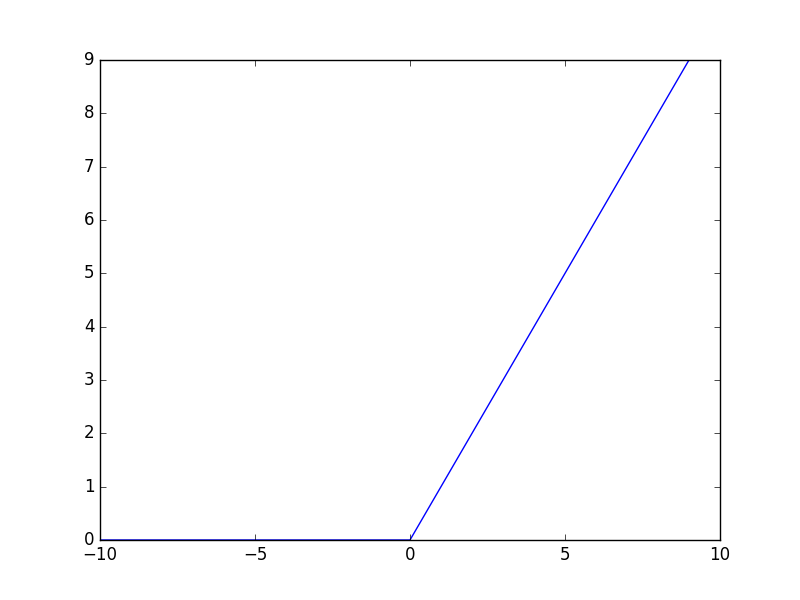
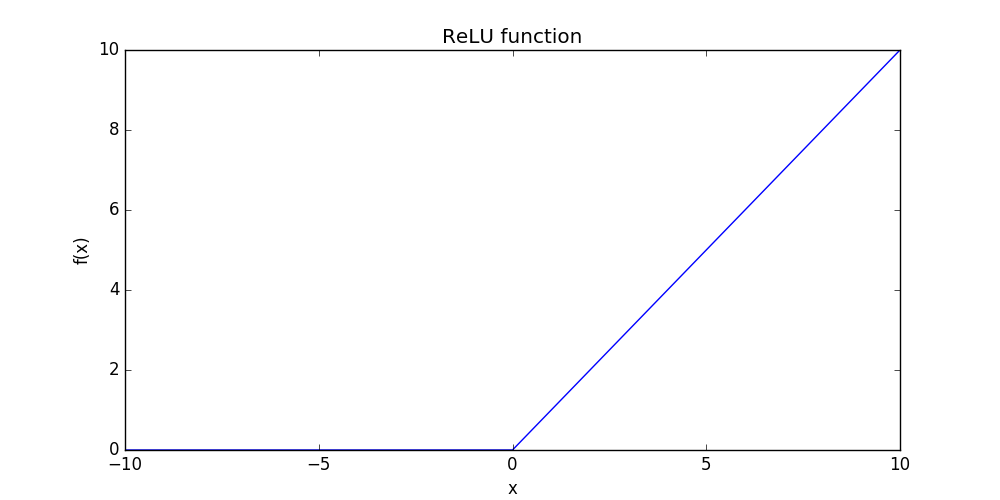
Deep learning intro done

diff --git a/report/deep_learning_intro.tex b/report/deep_learning_intro.tex
@@ -8,7 +8,7 @@
 
 In section \ref{sec:et} we mentioned that
 a \textit{neural network} can be used as a function approximator.
-Thus, a neural network can be seen as a function $f^\sim(x)$ that approximates a
+This means the neural network can be seen as a function $f^\sim(x)$ that approximates a
 function $f(x)$ and we will be using neural networks to estimate
 both the state-value function and the policy.
 We will present Deep Learning in this section with regards to the book \cite{DeepLearningBook} and the slides, \cite{IgelConv}, by Christian Igel
@@ -36,34 +36,35 @@ Each layer consists of a number of \textit{neurons} that are connected to the
 neurons of the next layer.
 \begin{figure}[!h]
     \centering
-    \includegraphics[width=10cm]{include/layers.png}
-    \caption{A series of layers in a fully connected neural network.}
+    \includegraphics[width=12cm]{include/layers.png}
+    \caption{A series of layers in a fully connected neural network, where each layer consists of three neurons.}
     \label{fig:layers}
 \end{figure}
 
-A neuron is a construct that transforms a series of input signals into a single output signal.
+A neuron is a unit that transforms a series of input signals into a single output signal.
 Each of the input signals are sent through a \textit{weighted connection}, which means
-that the input $a_i$ to neuron $z_i$ is given by
+that the input $a_i$ to a neuron $z_i$ is given by
 \begin{equation}
     a_i = \sum\limits_{j} w_{ij}* z_j
 \end{equation}
 for all neurons $z_j$ in the previous layer with a connection to $z_i$.
 
 The purpose of each of the hidden layers is to extract some features from the input.
-By using an \textit{activation function}, $h : \R^d \to \R$, on the
-weighted input it receives, a layer can either highlight or dampen
+To achieve this an \textit{activation function}, $h: \R^d \to \R$, is used on the weighted
+input, that can either highlight or dampen
 certain properties of the input.
-Combining the features extracted by the hidden layers is what allows the network
+Combining the features extracted by the hidden layers is what enables the network
 to approximate $f(x)$.
 The only way to change the network is by altering the weighted connections
 between the neurons, and the general idea is to change the weights such that
 $f^\sim(x)$ varies the least from $f(x)$ for all $x$.
-To update the weights of the networks we will be using the gradient approaches
-for both the Actor-Critic and A3C methods, presented in section \ref{sec:actor_critic_el} and \ref{sec:a3c}.
+To update the weights of the networks we will be using gradient ascent
+for the Actor-Critic method and RMSpropagation for the A3C algorithm,
+as presented in section \ref{sec:actor_critic_el} and \ref{sec:a3c}.
 %%%% A drawing of a neuron “up close”
 \begin{figure}[!h]
     \centering
-    \includegraphics[width=10cm]{include/neuron.png}
+    \includegraphics[width=12cm]{include/neuron.png}
     \caption{The structure of a single neuron with activation function $h$.}
     \label{fig:neuron}
 \end{figure}
@@ -71,12 +72,13 @@ for both the Actor-Critic and A3C methods, presented in section \ref{sec:actor_c
 The choice of activation function depends on the task the
 network is supposed to solve.
 In our case we wish to learn a policy and estimate the value of a state.
-The policy is a probability distribution, and we will be using a softmax
-to emulate this, as described in section \ref{sec:improv}, in the final layer
+The policy is a probability distribution, and we will be using a softmax function
+to emulate this, as described in section \ref{sec:improv}, in the final layer.
+The softmax function is defined as
 \begin{equation}
-    \text{softmax}(x) = \frac{e^(h(a_i))}{\sum\limits_{j} e^(h(a_j))}
+    \text{softmax}(x) = \frac{e^{h(a_i)}}{\sum\limits_{\ell} e^{h(a_\ell)}}
 \end{equation}
-for each of the $j$ actions we wish to assign a probability.
+for each of the $\ell$ actions we wish to assign a probability.
 Here the weighted connection from the previous layer, works as
 a numerical preference for each of the actions.
 The softmax function is a generalization of the sigmoid function, $\frac{1}{1 + e^{-x}}$,
@@ -92,20 +94,19 @@ The value estimate should only be a single output, and therefore we have chosen 
 let the output of the neural network that approximates $v_\pi(s)$ be given
 as the sum of the output of the neurons in the second to last layer.
 
-To promote sparsity in the hidden layers, we will be using the \textit{Rectified
+In the hidden layers we will be using the \textit{Rectified
 Linear Unit} (ReLU) as an activator.
 The ReLU is defined as
 \begin{equation}
     f(x) = \max(0,x)
 \end{equation}
-Since all negatie values are removed, the following layer will recieve less
-input, which lightens the computational burden of the layer.
-Another benefit of the ReLU is that the gradient is always constant.
+A benefit of the ReLU is that the gradient is always constant - 
+if $x \leq 0$ then the gradient is 0, and if $x > 0$ the gradient is 1.
 This can result in faster learning, since the gradient won't change even
 though the weights of the network changes.
 \begin{figure}[!h]
     \centering
-    \includegraphics[width=10cm]{include/relu.png}
+    \includegraphics[width=15cm]{include/relu.png}
     \caption{Plot of the ReLU function.}
     \label{fig:relu}
 \end{figure}
@@ -120,10 +121,10 @@ features to make a prediction of the output.
 To process the high dimensional frames from the Atari games we will be using
 a \textit{Convolutional} Neural Network (CNN).
 In addition to the activation performed in a neural network, a CNN
-also performs a \textit{convolution} and a \textit{pooling} of the input.
+also performs a \textit{convolution} and a \textit{pooling} of the input in each convolutional layer.
 
 In this project, the input to the CNN will be a two dimensional input with a single
-channel - the grayscaled and resized Atari frames.
+channel - a grayscaled and resized Atari frame.
 A convolution in two dimensions of a discrete image $I$ with filter kernel $K$
 is given by 
 \begin{equation}
@@ -131,9 +132,9 @@ is given by
 \end{equation}
 where the kernel filter $K$ is a function $K : \R^{(d, k)} \to \R$.
 A 2D convolutional layer takes advantage of the spatial structure in the input data to contruct a feature map
-using the linear filter $K$.
+using the filter.
 In a classic Neural Network each neuron has its own weighted connection to each neuron in the subsequent layer,
-but in a convolutional layer the neurons share a kernel of weights - the filter $K$, which can be represented as
+but in a convolutional layer the neurons share a kernel of weights - the filter $K$ -  which can be represented as
 a $d \times k$ dimensional matrix.
 $$
 K =
@@ -147,55 +148,57 @@ $$
 Each element in the resulting feature map describes the weighted sum of its neighbouring
 pixels.
 Due to the spatial structure found in images, performing a neighbourhood operation
-can be seen as extracting features from the original input - e.g. find the
+can be seen as extracting features from the original input - e.g. finding the
 edges in an image by performing a finite center differencing.
 
 For a $4 \times 4$ input image and a $3 \times 3$ kernel filter the convolution
 would be given by
 %%% 2d convolution
-\begin{figure}[!h]\label{fig:conv2}
+\begin{figure}[!h]
     \centering
     \includegraphics[width=10cm]{include/conv_2.png}
-    \caption{A 2D convolution on an image which produces a \textit{feature} map.}
+    \caption{A 2D convolution on an image which produces a feature map.}
     \label{fig:conv}
 \end{figure}
 \newpage
-A problem with the convolution shown in figure \ref{fig:conv2} is that
+A problem with the convolution shown in figure \ref{fig:conv} is that
 pixels at the boundary of the image are lost.
 To deal with this issue we make use of zero padding.
 By adding zeros to the border of each image, until the kernel
-filter fits around each pixel, the image can maintain its dimensions, since the
-padding is all that is lost now.
+filter fits around each pixel, the image can maintain its dimensions, since
+only the padding will be list in the convolution.
 %%% Zero padded 2d convolution
 \begin{figure}[H]
     \centering
     \includegraphics[width=10cm]{include/conv_2_zero_pad.png}
-    \caption{The effect of zero padding the input image.}
-    \label{fig:conv}
+    \caption{The effect of using zero padding on the input image,
+             before performing the convolution.}
+    \label{fig:conv2}
 \end{figure}
 Each element in the resulting feature map contains information about
-its neighbouring pixels, which means we can more safely reduce the dimensionality
-without losing as much information as if we were to reduce it before the convolution.
+its neighbouring pixels, which means we can reduce the dimensionality
+without losing as much information as if we reduced it before performing the convolution.
 The reduction performed is called a \textit{pooling} and attempts to retain
-as much information as possible after the reduction.
+as much information as possible, from the feature map produced by the previous convolution. 
 A common pooling scheme is to let every resulting element be the maximum
 or average value of an area of the input.
 \begin{figure}[H]
     \centering
     \includegraphics[width=10cm]{include/pooling.png}
-    \caption{A max-pooling of an input image $I$.}
-    \label{fig:conv}
+    \caption{A max-pooling performed on an image.}
 \end{figure}
 The pooling is performed to support \textit{translation invariance},
-which is used to make sure the features of the network are able to
+which is used to make sure the features of the input are able to
 be extracted, regardless of their position in the feature map.
-In an Atari game most objects move, while maintaining their original shape so being able to
+In an Atari game most objects move, while maintaining their original shape.
+Thus, being able to
 extract information about objects independent of their position is very useful.
 
 Instead of performing both a pooling and a convolutions in two separate steps,
 we will be using convolutions \textit{with stride}.
-This means we won't be applying the convolution to 
-every element of the input, but instead every \textit{nth} element,
+The stride determines the movement of the kernel filter, which means that
+using a stride of $n$, results in the kernel filter skipping $n$ elements 
+while computing the convolution.
 %%%%% Strides
 \begin{figure}[!h]\label{con2}
     \centering
@@ -205,7 +208,6 @@ every element of the input, but instead every \textit{nth} element,
              the convolution is skipping every second element.}
     \label{fig:conv}
 \end{figure}
-\newpage
 Here the convolution skips every second element, resulting in a downsampling
 of the input.
 In two dimensions a convolution can be seen as the kernel moving across
